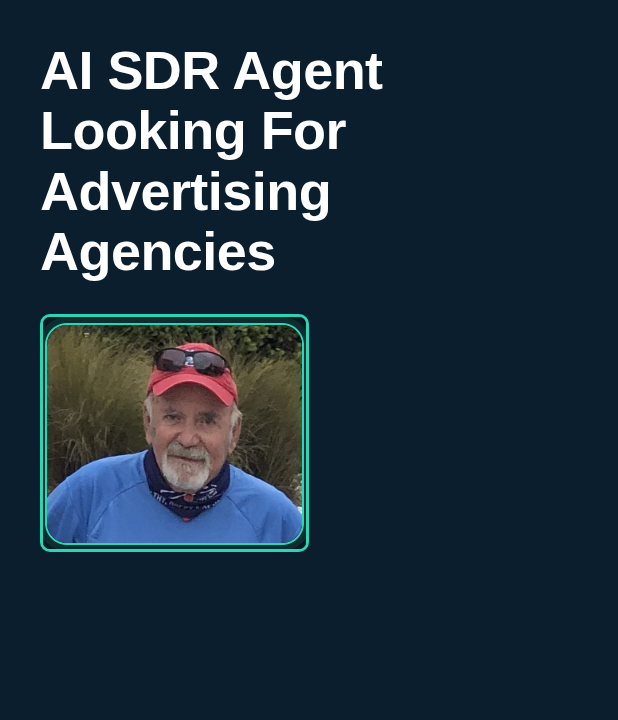
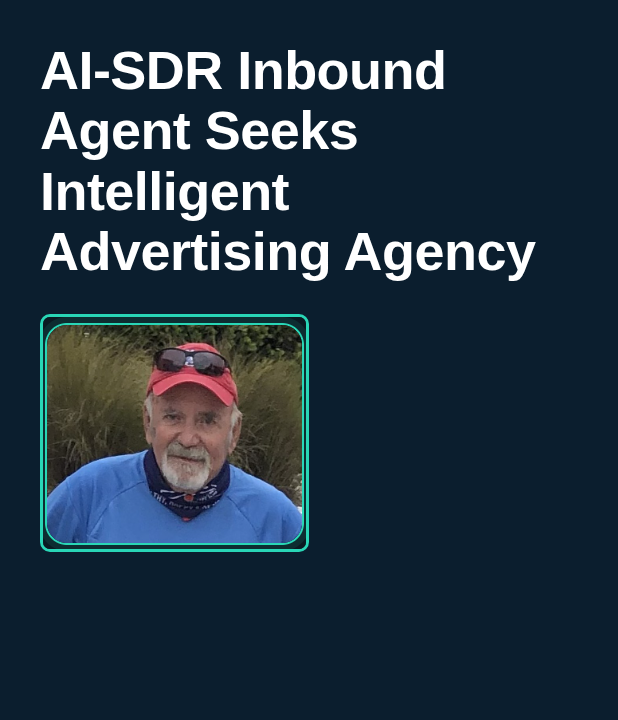
Add files via upload

Changed region(s): [[0.0615, 0.0611, 0.8608, 0.3972]]

diff --git a/index.html b/index.html
@@ -56,15 +56,36 @@
       <div style="font-family: 'IBM Plex Mono', monospace; font-size: 12px; letter-spacing: 0.16em; text-transform: uppercase; color: #D8A441; margin-bottom: 26px;">For Advertising Agencies</div>
 
       <div style="display: flex; flex-direction: column; gap: 18px; margin: 0 0 30px;">
-        <h1 style="display: flex; align-items: baseline; gap: 16px; font-size: clamp(30px, 4.4vw, 58px); line-height: 1.1; letter-spacing: -0.025em; font-weight: 800; margin: 0;"><span>AI SDR Agent For Advertising Agencies</span></h1>
-        <p style="font-family: 'Source Serif 4', Georgia, serif; font-size: clamp(22px, 1.7vw, 28px); line-height: 1.5; margin: 0; color: #FFFFFF; max-width: 56ch; text-wrap: pretty;">How can AI SDR Agent provide services to Advertising Agencies?</p>
-        <a href="#partner" style="align-self: flex-start; background: #D8A441; color: #071522; padding: 16px 28px; border-radius: 999px; font-weight: 600; font-size: 16px; margin-top: 4px;">Partner With Us</a>
+        <h1 style="display: flex; align-items: baseline; gap: 16px; font-size: clamp(30px, 4.4vw, 58px); line-height: 1.1; letter-spacing: -0.025em; font-weight: 800; margin: 0;"><span>AI-SDR Inbound Agent Seeks Intelligent Advertising Agency</span></h1>
+        <p style="font-family: 'Source Serif 4', Georgia, serif; font-size: clamp(22px, 1.7vw, 28px); line-height: 1.5; margin: 0; color: #FFFFFF; max-width: 56ch; text-wrap: pretty;">Our AI SDR Agent platform is built and powered by Claude (Anthropic's AI model). We can build anything you need, tell us!</p>
+        <form id="partnerForm" style="background: #0B1F33; border: 1px solid rgba(242,235,221,0.16); border-radius: 6px; padding: clamp(24px, 3.4vw, 40px); display: flex; flex-direction: column; gap: 20px; max-width: 640px;">
+          <div style="display: grid; grid-template-columns: repeat(auto-fit, minmax(180px, 1fr)); gap: 20px;">
+            <div style="display: flex; flex-direction: column; gap: 8px;">
+              <label for="partnerName" style="font-family: 'IBM Plex Mono', monospace; font-size: 13px; letter-spacing: 0.06em; text-transform: uppercase; color: #6FA3B0;">Name</label>
+              <input id="partnerName" name="name" type="text" required style="background: #071522; border: 1px solid rgba(242,235,221,0.22); border-radius: 4px; padding: 14px 16px; color: #FFFFFF; font-size: 16px; font-family: inherit;">
+            </div>
+            <div style="display: flex; flex-direction: column; gap: 8px;">
+              <label for="partnerEmail" style="font-family: 'IBM Plex Mono', monospace; font-size: 13px; letter-spacing: 0.06em; text-transform: uppercase; color: #6FA3B0;">Email</label>
+              <input id="partnerEmail" name="email" type="email" required style="background: #071522; border: 1px solid rgba(242,235,221,0.22); border-radius: 4px; padding: 14px 16px; color: #FFFFFF; font-size: 16px; font-family: inherit;">
+            </div>
+            <div style="display: flex; flex-direction: column; gap: 8px;">
+              <label for="partnerPhone" style="font-family: 'IBM Plex Mono', monospace; font-size: 13px; letter-spacing: 0.06em; text-transform: uppercase; color: #6FA3B0;">Phone</label>
+              <input id="partnerPhone" name="phone" type="tel" style="background: #071522; border: 1px solid rgba(242,235,221,0.22); border-radius: 4px; padding: 14px 16px; color: #FFFFFF; font-size: 16px; font-family: inherit;">
+            </div>
+          </div>
+          <div style="display: flex; flex-direction: column; gap: 8px;">
+            <label for="partnerMessage" style="font-family: 'IBM Plex Mono', monospace; font-size: 13px; letter-spacing: 0.06em; text-transform: uppercase; color: #6FA3B0;">Tell us about your requirement</label>
+            <textarea id="partnerMessage" name="message" rows="4" style="background: #071522; border: 1px solid rgba(242,235,221,0.22); border-radius: 4px; padding: 14px 16px; color: #FFFFFF; font-size: 16px; font-family: inherit; resize: vertical;"></textarea>
+          </div>
+          <div id="partnerStatus" style="display: none; font-family: 'IBM Plex Mono', monospace; font-size: 14px; padding: 12px 16px; border-radius: 4px;"></div>
+          <button type="submit" id="partnerSubmitBtn" style="background: #D8A441; color: #071522; border: none; padding: 16px 28px; border-radius: 3px; font-weight: 700; font-size: 17px; cursor: pointer; align-self: flex-start;" class="hoverfx-1">Send Inquiry</button>
+        </form>
       </div>
     </div>
 
     <div style="min-width: 0;">
       <div style="border-radius: 18px; overflow: hidden; aspect-ratio: 618 / 720; background: #0B1E2E; border: 1px solid #163247; max-width: 460px; margin: 0 auto;">
-        <img src="/capt-bob-headline-card.png" alt="AI SDR Agent Looking For Advertising Agencies - photo of Capt. Bob" style="width: 100%; height: 100%; object-fit: contain; display: block;">
+        <img src="/capt-bob-headline-card.png" alt="AI-SDR Inbound Agent Seeks Intelligent Advertising Agency - photo of Capt. Bob" style="width: 100%; height: 100%; object-fit: contain; display: block;">
       </div>
       <div style="font-family: 'IBM Plex Mono', monospace; font-size: 26px; font-weight: 700; letter-spacing: 0.06em; color: #FFFFFF; text-align: center; margin-top: 12px;">(1 of 1,408)</div>
     </div>
@@ -117,29 +138,7 @@
     <div style="margin: 0 auto;">
       <div style="font-family: 'IBM Plex Mono', monospace; font-size: 15px; letter-spacing: 0.16em; text-transform: uppercase; color: #D8A441; margin-bottom: 18px;">Agency partner program</div>
       <h2 style="font-size: clamp(40px, 5vw, 60px); line-height: 1.04; letter-spacing: -0.03em; font-weight: 800; margin: 0 0 20px; max-width: 18ch;">Looking For Ad Agencies</h2>
-      <p style="font-family: 'Source Serif 4', Georgia, serif; font-size: clamp(19px, 1.5vw, 23px); line-height: 1.55; margin: 0 0 clamp(32px, 4vw, 48px); color: #FFFFFF; max-width: 56ch; text-wrap: pretty;">If your agency manages clients selling high-ticket products — and those clients are willing to pay for a High-Intent lead — we want to talk. Tell us about your roster and where you see the opportunity.</p>
-      <form id="partnerForm" style="background: #0B1F33; border: 1px solid rgba(242,235,221,0.16); border-radius: 6px; padding: clamp(24px, 3.4vw, 40px); display: flex; flex-direction: column; gap: 20px; max-width: 640px;">
-        <div style="display: grid; grid-template-columns: repeat(auto-fit, minmax(180px, 1fr)); gap: 20px;">
-          <div style="display: flex; flex-direction: column; gap: 8px;">
-            <label for="partnerName" style="font-family: 'IBM Plex Mono', monospace; font-size: 13px; letter-spacing: 0.06em; text-transform: uppercase; color: #6FA3B0;">Name</label>
-            <input id="partnerName" name="name" type="text" required style="background: #071522; border: 1px solid rgba(242,235,221,0.22); border-radius: 4px; padding: 14px 16px; color: #FFFFFF; font-size: 16px; font-family: inherit;">
-          </div>
-          <div style="display: flex; flex-direction: column; gap: 8px;">
-            <label for="partnerEmail" style="font-family: 'IBM Plex Mono', monospace; font-size: 13px; letter-spacing: 0.06em; text-transform: uppercase; color: #6FA3B0;">Email</label>
-            <input id="partnerEmail" name="email" type="email" required style="background: #071522; border: 1px solid rgba(242,235,221,0.22); border-radius: 4px; padding: 14px 16px; color: #FFFFFF; font-size: 16px; font-family: inherit;">
-          </div>
-          <div style="display: flex; flex-direction: column; gap: 8px;">
-            <label for="partnerPhone" style="font-family: 'IBM Plex Mono', monospace; font-size: 13px; letter-spacing: 0.06em; text-transform: uppercase; color: #6FA3B0;">Phone</label>
-            <input id="partnerPhone" name="phone" type="tel" style="background: #071522; border: 1px solid rgba(242,235,221,0.22); border-radius: 4px; padding: 14px 16px; color: #FFFFFF; font-size: 16px; font-family: inherit;">
-          </div>
-        </div>
-        <div style="display: flex; flex-direction: column; gap: 8px;">
-          <label for="partnerMessage" style="font-family: 'IBM Plex Mono', monospace; font-size: 13px; letter-spacing: 0.06em; text-transform: uppercase; color: #6FA3B0;">Tell us about your requirement</label>
-          <textarea id="partnerMessage" name="message" rows="4" style="background: #071522; border: 1px solid rgba(242,235,221,0.22); border-radius: 4px; padding: 14px 16px; color: #FFFFFF; font-size: 16px; font-family: inherit; resize: vertical;"></textarea>
-        </div>
-        <div id="partnerStatus" style="display: none; font-family: 'IBM Plex Mono', monospace; font-size: 14px; padding: 12px 16px; border-radius: 4px;"></div>
-        <button type="submit" id="partnerSubmitBtn" style="background: #D8A441; color: #071522; border: none; padding: 16px 28px; border-radius: 3px; font-weight: 700; font-size: 17px; cursor: pointer; align-self: flex-start;" class="hoverfx-1">Send Inquiry</button>
-      </form>
+      <p style="font-family: 'Source Serif 4', Georgia, serif; font-size: clamp(19px, 1.5vw, 23px); line-height: 1.55; margin: 0; color: #FFFFFF; max-width: 56ch; text-wrap: pretty;">If your agency manages clients selling high-ticket products — and those clients are willing to pay for a High-Intent lead — we want to talk. Tell us about your roster and where you see the opportunity.</p>
     </div>
   </section>
 
